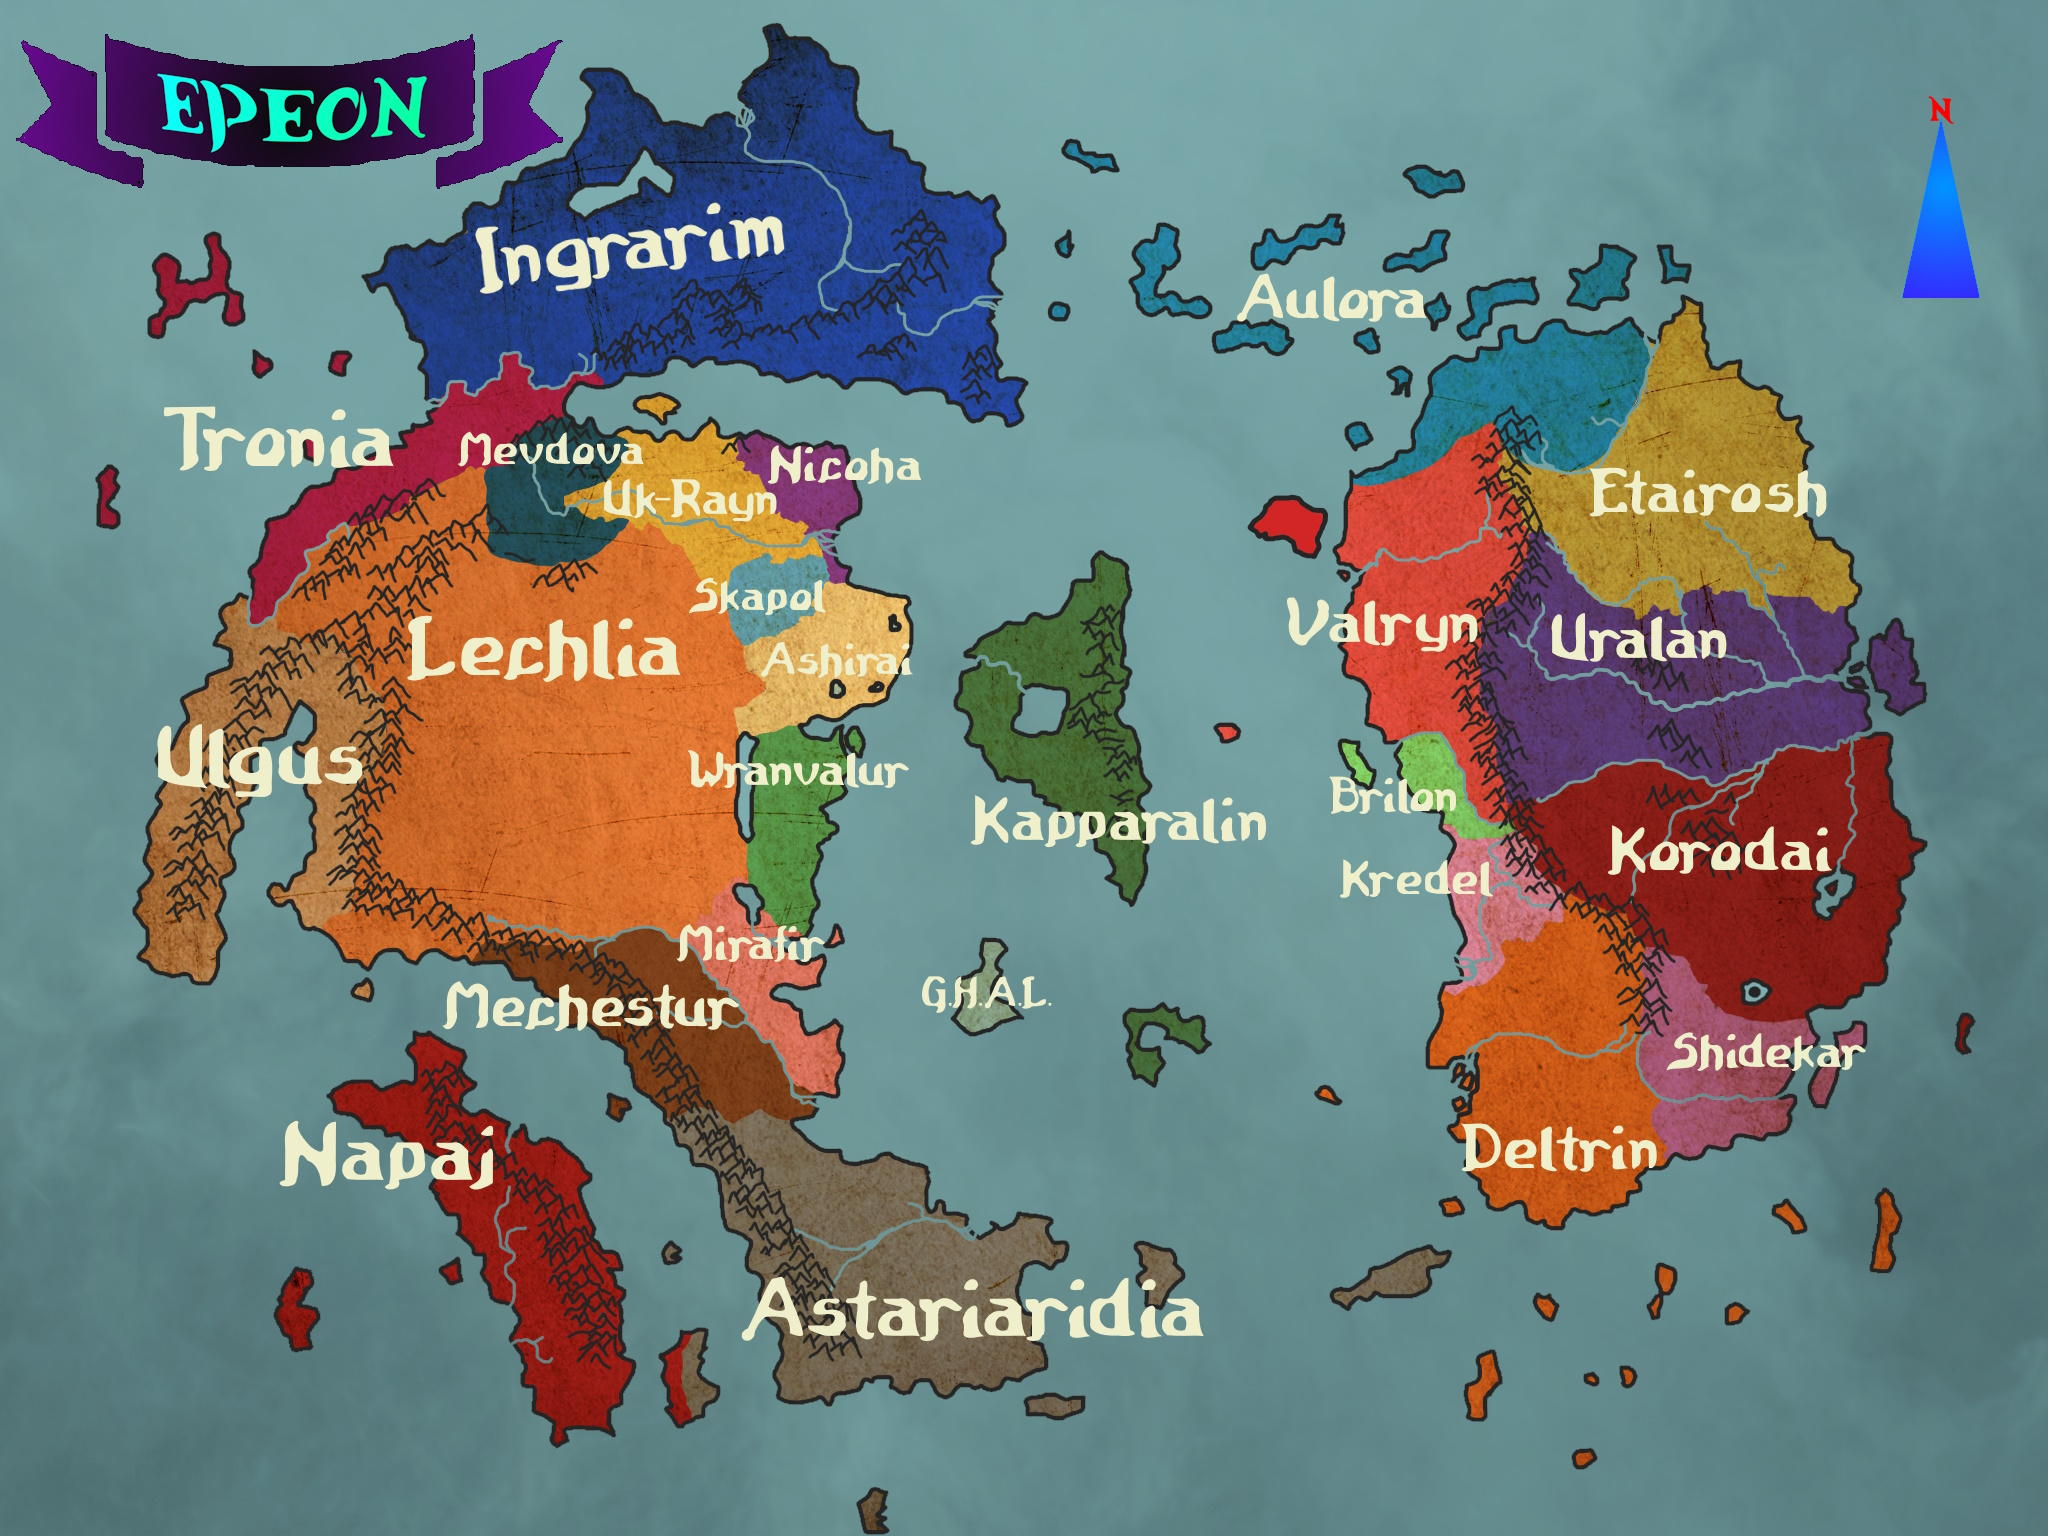
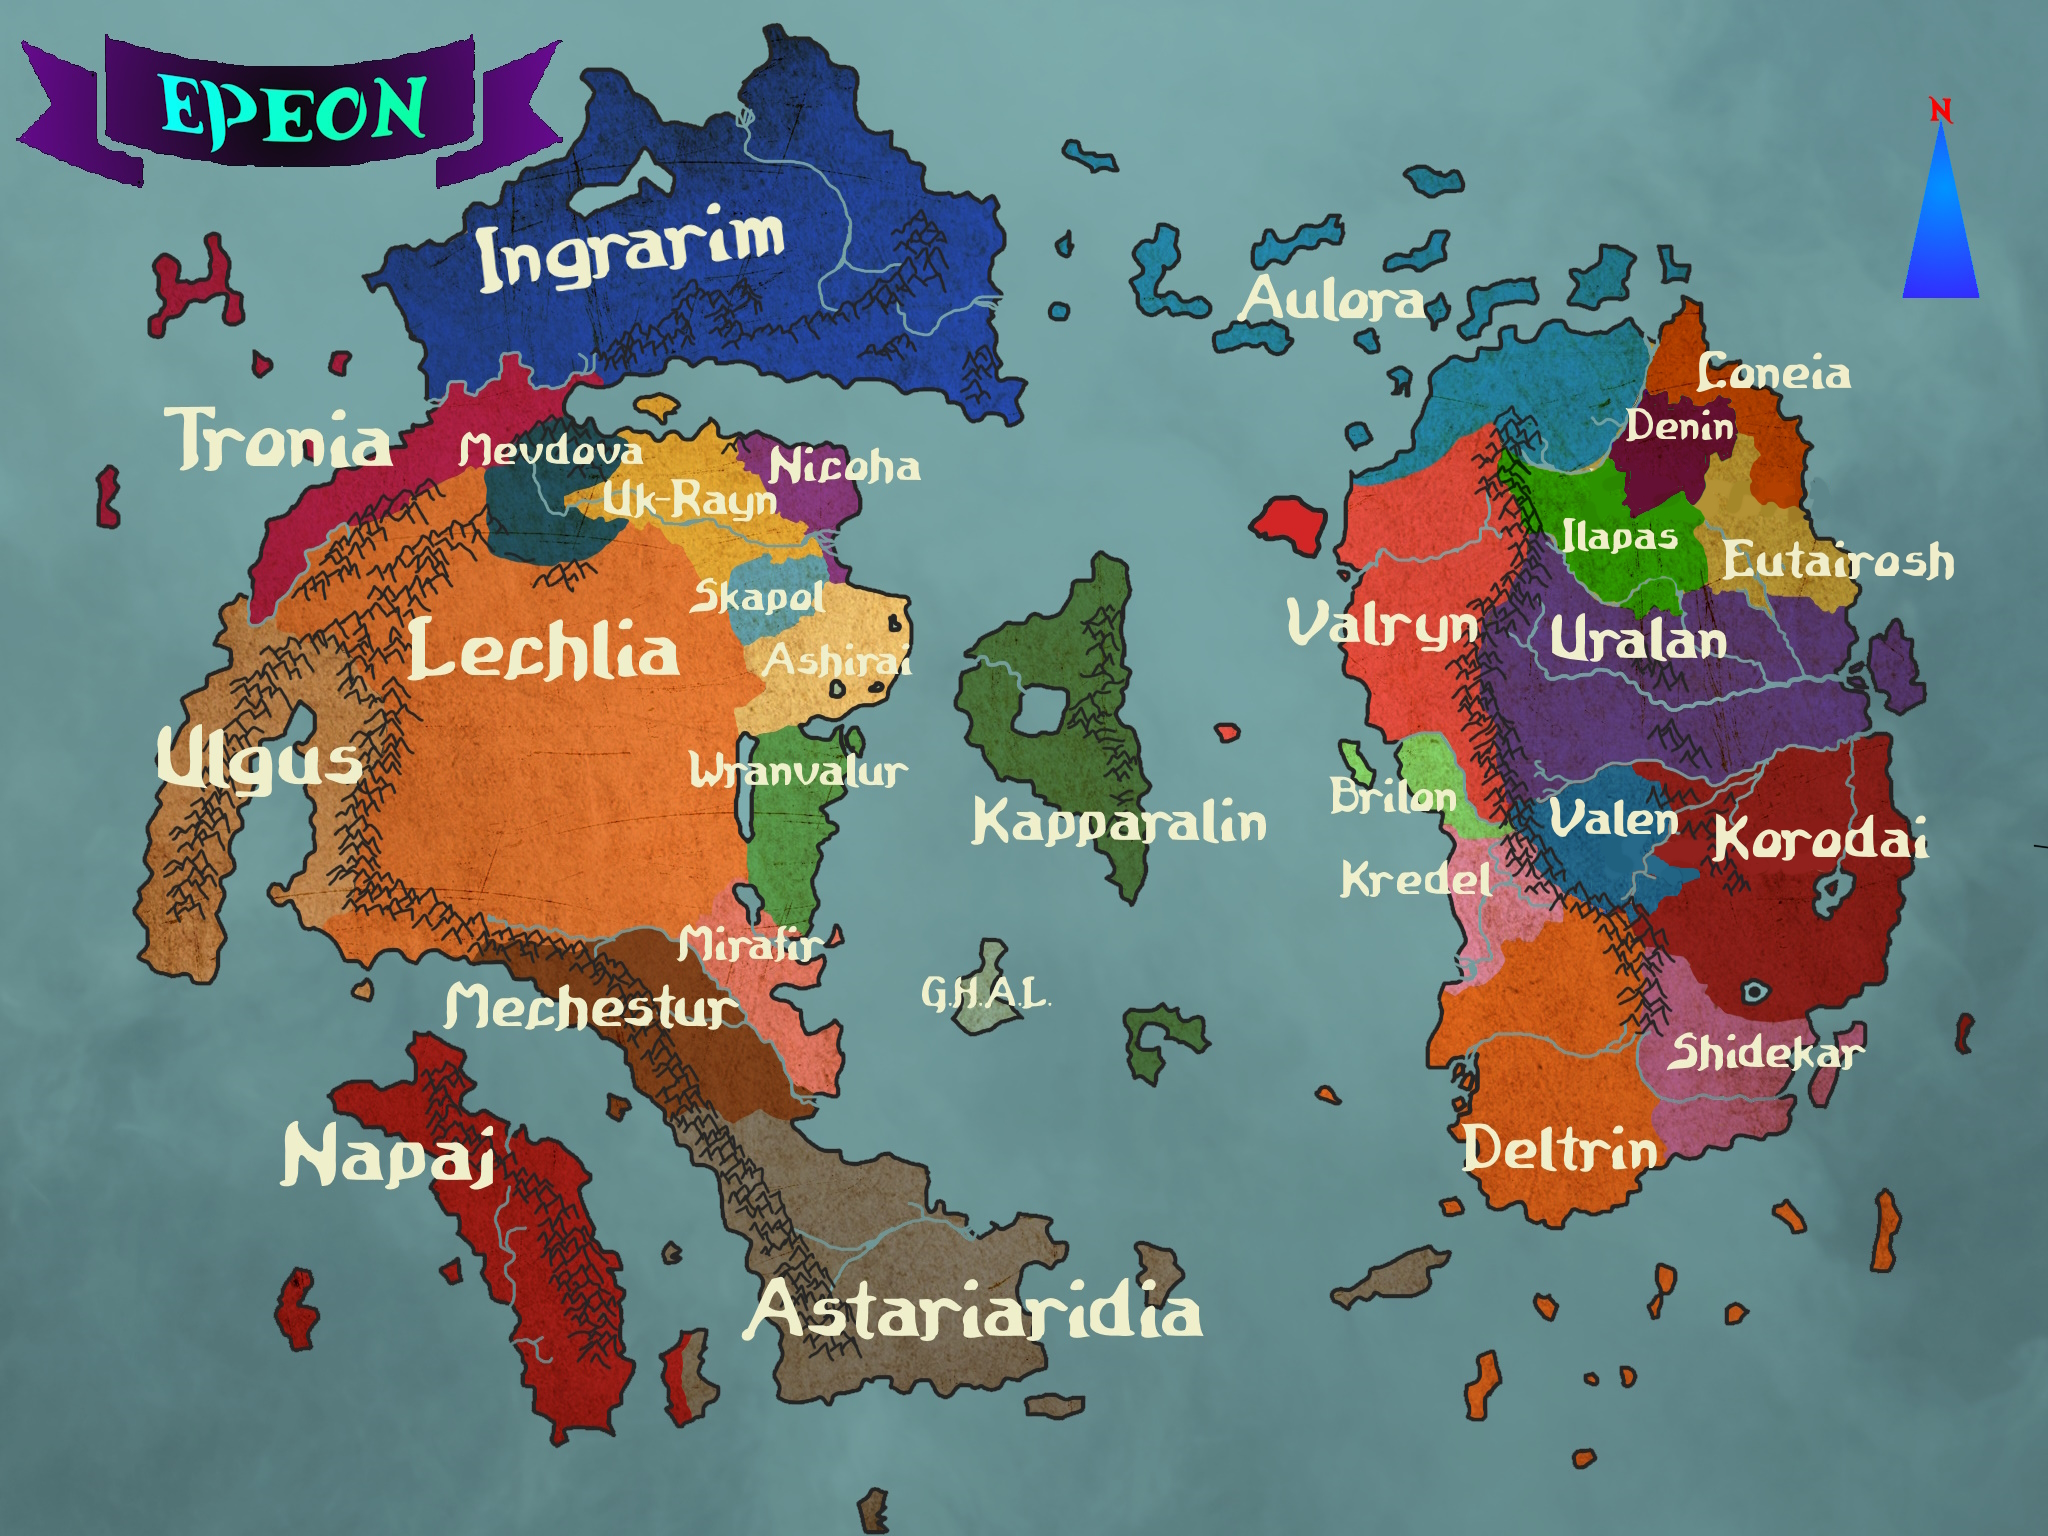
Lore e mapa novo

Changed region(s): [[0.7188, 0.1875, 0.9688, 0.4062], [0.7188, 0.5, 0.9375, 0.5938]]

diff --git a/locais.html b/locais.html
@@ -77,6 +77,20 @@
             </li>
             <li>
                 <div class="container_img">
+                    <p id="texto">Coneia</p>
+                    <img src="Bandeiras/Coneia.png" class="bandeira">
+                    <p id="texto">>Capital: Cap_Tehl<br>Lugar<br><br>>História: História e tals.<br><br>>Pontos de Interesse:🗿</p><br>
+                </div>
+            </li>
+            <li>
+                <div class="container_img">
+                    <p id="texto">Denin</p>
+                    <img src="Bandeiras/Denin.png" class="bandeira">
+                    <p id="texto">>Capital: Cap_Tehl<br>Lugar<br><br>>História: História e tals.<br><br>>Pontos de Interesse:🗿</p><br>
+                </div>
+            </li>
+            <li>
+                <div class="container_img">
                     <p id="texto">Deltrin</p>
                     <img src="Bandeiras/Deltrin.png" class="bandeira">
                     <p id="texto">>Capital: Cap_Tehl<br>Hobgoblins & Piratas<br><br>>História: História e tals.<br><br>>Pontos de Interesse:🗿</p><br>
@@ -86,7 +100,14 @@
                 <div class="container_img">
                     <p id="texto">Eutariosh</p>
                     <img src="Bandeiras/Etairosh.png" class="bandeira">
-                    <p id="texto">>Capital: Cap_Tehl<br>Descrição e tals<br><br>>História: História e tals.<br><br>>Pontos de Interesse:🗿</p><br>
+                    <p id="texto">>Capital: Cap_Tehl<br>Um reino recente, consciste principalmete de planícies e 
+                        pradarias, com uma cultura forte de hipismo.<br><br>>História: As regiões do atual
+                        reino de Eutariosh antes eram uma província de Uralan, até uma crise interna ocorrida pelo
+                        fato de que o rei de Uralan, Pepe II estava idoso e perto de sua morte. Incerteza e insatifação
+                        geraram um sentimento de separação e, liderados por Laduin, uma guerra foi travada que resultou
+                        na separação do império. Pouco tempo após isso, a influência de Laduin nas partes mais distantes
+                        do reino, gerando vários conflitos internos. Estes confltos resultaram na separação das regiões de
+                        Conia, Denin e Itapas.<br><br>>Pontos de Interesse:🗿</p><br>
                 </div>
             </li>
             <li>
@@ -101,6 +122,13 @@
                     <p id="texto">Ingrarim</p>
                     <img src="Bandeiras/Ingrarin.jpeg" class="bandeira">
                     <p id="texto">>Capital: Cap_Tehl<br>Possível local de origem dos anões, montanhas e gelo<br><br>>História: História e tals.<br><br>>Pontos de Interesse:🗿</p><br>
+                </div>
+            </li>
+            <li>
+                <div class="container_img">
+                    <p id="texto">Itapas</p>
+                    <img src="Bandeiras/Itapas.png" class="bandeira">
+                    <p id="texto">>Capital: Cap_Tehl<br>Lugar<br><br>>História: História e tals.<br><br>>Pontos de Interesse:🗿</p><br>
                 </div>
             </li>
             <li>
@@ -243,6 +271,18 @@
                           exímio arqueiro, que defendeu o imperador e lutou bravamente na guerra do norte, indicado diretamente por Pepe II, que hoje
                           habita as estantes imensas da Biblioteca Real como um fantasma.<br><br>>Pontos de Interesse: Biblioteca Real de Suanam, Templos
                         da ilha de Mar-jol, Pântanos de Tuné, Praça dos Heróis em Ohmar</p><br>
+                </div>
+            </li>
+            <li>
+                <div class="container_img">
+                    <p id="texto">Valen</p>
+                    <img src="Bandeiras/Valen.png" class="bandeira">
+                    <p id="texto">>Capital: Cap_Tehl<br>Valem é uma região inóspida e obscura, com uma cultura
+                        muitas vezes considerada macabra, formada por anos de opressão sobre Korodai. Suas riquezas vêm
+                        principalmente da mineração de metais e pedras preciosas. Necromancia e outras
+                        magias escuras são comuns.<br><br>>História: Recentemente separada do controle de Korodai,
+                        a região foi fundada com base em uma rebelião de elfos e outros seres oprimidos e descontentes 
+                        com a vida em Korodai<br><br>>Pontos de Interesse:🗿</p><br>
                 </div>
             </li>
             <li>
